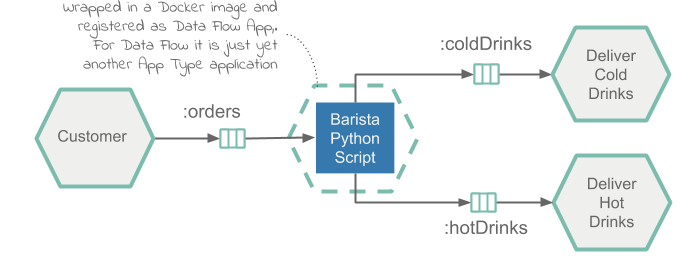
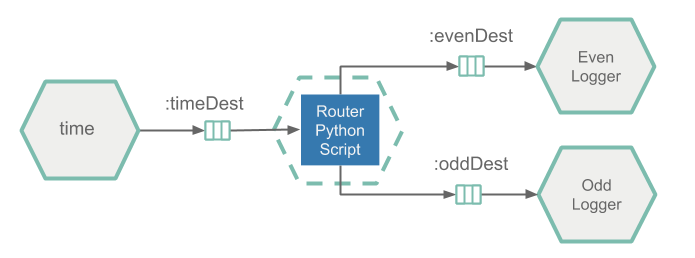
Replace Barista by Python-Router
- fix the corresponding samples project and add pipeline deployment properties artifact
 - update the new springcloud/polyglot-python-app:0.2 image
 - update the recipe documentation
 - replace all affected diagrams
 - Test the python-router on minikube

 Resolves: spring-cloud/spring-cloud-dataflow/issues/3247

Changed region(s): [[0.0303, 0.0, 0.9711, 1.0]]

diff --git a/content/documentation/pages/6-recipes/1-polyglot/3-polyglot-python-app.md b/content/documentation/pages/6-recipes/1-polyglot/3-polyglot-python-app.md
@@ -8,72 +8,96 @@ description: 'Create and Deploy a Python Application in a Stream'
 
 This recipe illustrates how to deploy a Python script as an Data Flow [application](https://docs.spring.io/spring-cloud-dataflow/docs/%dataflow-version%/reference/htmlsingle/#spring-cloud-dataflow-stream-app-dsl).
 Unlike the other applications types (e.g. `source`, `processor` or `sink`), Data Flow does not set deployment properties that wire up producers and consumers when deploying the `app` application type.
-It is the developer’s responsibility to 'wire up' the multiple applications when deploying in order for them to communicate using deployment properties.
+It is the developer’s responsibility to 'wire up' the multiple applications when deploying in order for them to communicate by using deployment properties.
 
-In this guide we will package the Python script as a Docker image and deploy to Kubernetes. Apache Kafka will be used as the messaging middleware. One could also deploy to the `Local` platform.
-The docker image will be registered in Data Flow as an application of the type `App`.
-
-The recipe creates a data processing pipelines that emulates part of the operation of a cafe inspired by one of the samples in the [Enterprise Integration Patterns web site](https://www.enterpriseintegrationpatterns.com/ramblings/18_starbucks.html).
-The Pipeline takes customer's `orders` message from an input channel, depending on the order it routes the message to dedicated `hotDrink` or `coldDrink` downstream channels.
+The recipe creates a data processing pipelines that dispatches `input` stream of timestamps to either `even` or `odd` downstream channels.
+Technically the recipe implements the [Dynamic Router](https://www.enterpriseintegrationpatterns.com/patterns/messaging/DynamicRouter.html) integration pattern.
+The Pipeline takes time's source `timestamps` messages from an `timeDest` input channel, depending on the timestamp value it routes the message to dedicated `evenDest` or `oddDest` downstream channels.
 
 The following diagram shows the architecture of the cafe processing pipelines.
 
 ![SCDF Python Tasks](images/polyglot-python-app-architecture.png)
 
-To avoid creating a new source applications, the `Customer`, will use the prebuilt [Time Source](https://docs.spring.io/spring-cloud-stream-app-starters/docs/%streaming-apps-version%/reference/htmlsingle/#spring-cloud-stream-modules-time-source) application.
-It continuously emits timestamps, that will represent the order, to a downstream Kafka topic called `orders`.
+As timestamp source will use the pre-built [Time Source](https://docs.spring.io/spring-cloud-stream-app-starters/docs/%streaming-apps-latest%/reference/htmlsingle/#spring-cloud-stream-modules-time-source) application but registered as Data Flow `App` type.
+It continuously emits timestamps to a downstream Kafka topic called `timeDest`.
 
-The `Barista` app, implemented by the Python script, consumes the incoming orders (e.g. timestamps) and produces hot drinks for the even timestamps and cold drinks for the odd ones.
-Produced drinks (represented by text messages) are sent downstream to ether the `hotDrink` or `coldDrink` Kafka topics.
+The `Router` app, implemented by the Python script and packaged as a Docker image, consumes the incoming timestamps from the `timeDest` Kafka topic and according to the timestamp value routes the messages downstream to either the `evenDest` or `oddDest` Kafka topics.
 
-The `Deliver Hot Drink` and `Deliver Cold Drink` components are the prebuilt [log-sink] applications that consume the `hotDrink` or `coldDrink` topics and prints the incoming message in on the console.
+The `Even Logger` and `Odd Logger` components are the pre-built [Log Sink](https://docs.spring.io/spring-cloud-stream-app-starters/docs/%streaming-apps-latest%/reference/htmlsingle/#spring-cloud-stream-modules-log-sink) applications but registered as Data Flow `App` type.
+Loggers consume the `evenDest` or `oddDest` topics and prints the incoming message in on the console.
+
+Apache Kafka will be used as the messaging middleware. 
+
 
 ## Development
 
 The source code can be found in the samples GitHub [repository](https://github.com/spring-cloud/spring-cloud-dataflow-samples/tree/master/dataflow-website/recipes/polyglot/polyglot-python-app) and downloaded as a zipped archive: [polyglot-python-app.zip](https://github.com/spring-cloud/spring-cloud-dataflow-samples/raw/master/dataflow-website/recipes/polyglot/polyglot-python-app.zip).
 
-The [barista_app.py](https://github.com/spring-cloud/spring-cloud-dataflow-samples/blob/master/dataflow-website/recipes/polyglot/polyglot-python-app/barista_app.py) implements the Barista application logic.
+The [python_router_app.py](https://github.com/spring-cloud/spring-cloud-dataflow-samples/blob/master/dataflow-website/recipes/polyglot/polyglot-python-app/python_router_app.py) implements the timestamp Router application logic.
 
 ```python
+from kafka import KafkaConsumer, KafkaProducer
+from kafka.admin import KafkaAdminClient, NewTopic
+from kafka.errors import TopicAlreadyExistsError
+
 from util.actuator import Actuator
 from util.arguments import get_kafka_brokers, get_env_info, get_channel_topic
 
-class Barista:
+class Router:
 
- def __init__(self, info, kafka_brokers, orders, hot_drinks, cold_drinks):
-   self.kafka_brokers = kafka_brokers
-   self.orders_topic = orders
-   self.hot_drink_topic = hot_drinks
-   self.cold_drink_topic = cold_drinks
+    def __init__(self, info, kafka_brokers, input_topic, even_topic, odd_topic):
 
-   Actuator.start(port=8080, info=info)
+        self.kafka_brokers = kafka_brokers
+        self.input_topic = input_topic
+        self.even_topic = even_topic
+        self.odd_topic = odd_topic
 
-   self.consumer = KafkaConsumer(self.orders_topic, bootstrap_servers=self.kafka_brokers)
-   self.producer = KafkaProducer(bootstrap_servers=self.kafka_brokers)
+        # Serve the liveliness and readiness probes via http server in a separate thread.
+        Actuator.start(port=8080, info=info)
 
- def process_orders(self):
-   while True:
-     for message in self.consumer:
-       if message.value is not None:
-         if self.is_even_order(message.value):
-           self.producer.send(self.hot_drink_topic, b'Serve Hot drink')
-         else:
-           self.producer.send(self.cold_drink_topic, b'Serve Cold drink')
+        # Ensure the output topics exist.
+        self.__create_topics_if_missing([self.input_topic, self.even_topic, self.odd_topic])
 
-Barista(
-   get_env_info(),
-   get_kafka_brokers(),
-   get_channel_topic('orders'),
-   get_channel_topic('hot.drink'),
-   get_channel_topic('cold.drink')
-).process_orders()
+        self.consumer = KafkaConsumer(self.input_topic, bootstrap_servers=self.kafka_brokers)
+        self.producer = KafkaProducer(bootstrap_servers=self.kafka_brokers)
+
+    def __create_topics_if_missing(self, topic_names):
+        admin_client = KafkaAdminClient(bootstrap_servers=self.kafka_brokers, client_id='test')
+        for topic in topic_names:
+            try:
+                new_topic = NewTopic(name=topic, num_partitions=1, replication_factor=1)
+                admin_client.create_topics(new_topics=[new_topic], validate_only=False)
+            except TopicAlreadyExistsError:
+                print ('Topic: {} already exists!')
+
+    def process_timestamps(self):
+        while True:
+            for message in self.consumer:
+                if message.value is not None:
+                    if self.is_even_timestamp(message.value):
+                        self.producer.send(self.even_topic, b'Even timestamp: ' + message.value)
+                    else:
+                        self.producer.send(self.odd_topic, b'Odd timestamp:' + message.value)
+
+    @staticmethod
+    def is_even_timestamp(value):
+        return int(value[-1:]) % 2 == 0
+
+
+Router(
+    get_env_info(),
+    get_kafka_brokers(),
+    get_channel_topic('input'),
+    get_channel_topic('even'),
+    get_channel_topic('odd')
+).process_timestamps()
 
 ```
 
 [[note]]
 | If the `print` command is used inside the Python script, later must be flushed with `sys.stdout.flush()` to prevent the output buffer being filled up, causing disruption to the Kafka’s consumer/producer flow!
 
-- The [kafka-python](https://github.com/dpkp/kafka-python) library is used to consume and produce Kafka messages. The process_orders method continuously consumes orders from the input channel and send hot or cold drinks to the output channels.
+- The [kafka-python](https://github.com/dpkp/kafka-python) library is used to consume and produce Kafka messages. The process_timestamps method continuously consumes timestamps from the input channel and routs the even or odd values to the output channels.
 
 - The [Actuator](https://github.com/spring-cloud/spring-cloud-dataflow-samples/blob/master/dataflow-website/recipes/polyglot/polyglot-python-app/util/actuator.py#L7) class inside [actuator.py](https://github.com/spring-cloud/spring-cloud-dataflow-samples/blob/master/dataflow-website/recipes/polyglot/polyglot-python-app/util/actuator.py) utility is used to expose operational information about the running application, such as health, liveliness, info, etc.
   It runs an embedded HTTP server in a separate thread and exposes the `/actuator/health` and `/actuator/info` entry-points handles the Kubernetes liveness and readiness probes requests.
@@ -82,18 +106,19 @@ Barista(
   The utility assumes default (e.g. exec) [entry point style](https://docs.spring.io/spring-cloud-dataflow/docs/%dataflow-version%/reference/htmlsingle/#_entry_point_style_2).
   Note that Data Flow passes the Kafka broker connection properties as environment variables.
 
-For the `barista_app.py` to act as a Data Flow `app` it needs to be bundled in a docker image and uploaded to `DockerHub`. Following [Dockerfile](https://github.com/spring-cloud/spring-cloud-dataflow-samples/blob/master/dataflow-website/recipes/polyglot/polyglot-python-app/Dockerfile) illustrates how to bundle a Python script into docker image:
+For the `python_router_app.py` to act as a Data Flow `app` it needs to be bundled in a docker image and uploaded to `DockerHub`. Following [Dockerfile](https://github.com/spring-cloud/spring-cloud-dataflow-samples/blob/master/dataflow-website/recipes/polyglot/polyglot-python-app/Dockerfile) illustrates how to bundle a Python script into docker image:
 
 ```docker
 FROM python:3.7.3-slim
 RUN pip install kafka-python
 RUN pip install flask
 ADD /util/* /util/
-ADD barista_app.py /
-ENTRYPOINT ["python","/barista_app.py"]
+ADD python_router_app.py /
+ENTRYPOINT ["python","/python_router_app.py"]
+CMD []
 ```
 
-The Dockerfile installs the required dependencies, adds the barista script (e.g. `ADD barista_app.py`) and utilities (under the `util` folder above) and sets the command entry.
+The Dockerfile installs the required dependencies, adds the python script (e.g. `ADD python_router_app.py`) and utilities (under the `util` folder above) and sets the command entry.
 
 ### Build
 
@@ -109,8 +134,8 @@ cd ./spring-cloud-dataflow-samples/dataflow-website/recipes/polyglot/polyglot-py
 From within the `polyglot-python-app`, build and push the polyglot-python-app Docker image to DockerHub:
 
 ```bash
-docker build -t springcloud/polyglot-python-app:0.1 .
-docker push springcloud/polyglot-python-app:0.1
+docker build -t springcloud/polyglot-python-app:0.2 .
+docker push springcloud/polyglot-python-app:0.2
 ```
 
 <!--TIP-->
@@ -128,66 +153,86 @@ Follow the [installation instructions](%currentPath%/installation/kubernetes/) t
 Retrieve the Data Flow url from minikube (`minikube service --url scdf-server`) and configure your Data Flow shell:
 
 ```bash
-dataflow config server --uri http://192.168.99.100:30868`
+dataflow config server --uri http://192.168.99.100:30868
 ```
 
-Import the SCDF app starters and register the polyglot-python-app as barista-app of type `app`
+Import the SCDF `time` and `log` app starters and register the polyglot-python-app as `python-router` of type `app`
 
 ```bash
-app import --uri https://dataflow.spring.io/kafka-docker-latest
-app register --type app --name barista-app --uri docker://springcloud/polyglot-python-app:0.1
+app register --name time --type app --uri docker:springcloudstream/time-source-kafka:2.1.0.RELEASE --metadata-uri maven://org.springframework.cloud.stream.app:time-source-kafka:jar:metadata:2.1.0.RELEASE
+
+app register --name log --type app --uri docker:springcloudstream/log-sink-kafka:2.1.1.RELEASE --metadata-uri maven://org.springframework.cloud.stream.app:log-sink-kafka:jar:metadata:2.1.1.RELEASE
+
+app register --type app --name python-router --uri docker://springcloud/polyglot-python-app:0.2
 ```
 
-The `docker://springcloud/polyglot-python-app:0.1` is resolved from the [DockerHub repository](https://hub.docker.com/r/springcloud/polyglot-python-app).
+The `docker://springcloud/polyglot-python-app:0.2` is resolved from the [DockerHub repository](https://hub.docker.com/r/springcloud/polyglot-python-app).
 
-Create the orders, cold-drink-line and hot-drink-line, bar pipelines:
+Create the timestamp routing Stream pipeline:
 
 ```bash
-stream create --name orders-pipeline --definition "customer: time > :orders" --deploy
-stream create --name hot-drink-pipeline --definition ":hotDrinks > hot-drink-log: log" --deploy
-stream create --name cold-drink-pipeline --definition ":coldDrinks > cold-drink-log: log" --deploy
-stream create --name bar-pipeline --definition "barista-app"
+stream create --name timeStampStream --definition "time || python-router || evenLogger: log || oddLogger: log"
 ```
 
 <!--NOTE-->
 
-The stream definitions above make use of the [label feature](%currentPath%/feature-guides/streams/labels/) in the DSL in addition to [named destinations](%currentPath%/feature-guides/streams/named-destinations/). For example, the definition `:hotDrinks > hot-drink-log: log` is using the the named destination `hotDrinks`, which is the destination where the Python application will send messages. The expression `hot-drink-log: log` labels the log appliction with a more descriptive name.
+The stream definitions above make use of the [label feature](%currentPath%/feature-guides/streams/labels/) in the DSL.
 
 <!--END_NOTE-->
 
-As result the following stream pipelines are created and all but the `bar-pipeline` are deployed:
+As result the following stream pipeline is created:
 
-![Barista Applications - Not Wired](images/polyglot-python-app-barista.png)
-
-- `orders-pipeline` generates drink orders (e.g. timestamps) using the `time` source application and sends them to a Kafka topic: `orders`.
-- `hot-drink-pipeline` logs the hot drinks coming through the Kafka topic named `hotDrinks`.
-- `cold-drink-pipeline` logs the cold drinks coming through Kafka topic named `coldDrinks`.
+![timeStampStream un-deployed](images/polyglot-python-app-timeStampStream-undeployed.png)
 
 <!--IMPORTANT-->
 
-The `barista-app` is registered as [App](https://docs.spring.io/spring-cloud-dataflow/docs/%dataflow-version%/reference/htmlsingle/#spring-cloud-dataflow-stream-app-dsl) type application and therefore can have multiple input and output bindings (e.g. channels). Data Flow does not make any assumptions about the flow of data from one application to another. It is the developer’s responsibility to 'wire up' the multiple applications when deploying in order for them to communicate.
+The `time`, `log` and `python-router` are registered as [App](https://docs.spring.io/spring-cloud-dataflow/docs/%scdf-version-latest%/reference/htmlsingle/#spring-cloud-dataflow-stream-app-dsl) type applications and therefore can have multiple input and output bindings (e.g. channels). Data Flow does not make any assumptions about the flow of data from one application to another. It is the developer’s responsibility to 'wire up' the multiple applications when deploying in order for them to communicate.
 
 <!--END_IMPORTANT-->
 
-Keeping this in mind we deploy the `bar-pipeline` with the following deployment properties:
+Keeping this in mind we deploy the timestamp Stream pipeline with the [polyglot-python-app-deployment.properties](https://github.com/spring-cloud/spring-cloud-dataflow-samples/blob/master/dataflow-website/recipes/polyglot/polyglot-python-app/polyglot-python-app-deployment.properties) deployment properties:
 
 ```bash
-stream deploy --name bar-pipeline --properties app.barista-app.spring.cloud.stream.bindings.orders.destination=orders,app.barista-app.spring.cloud.stream.bindings.hot.drink.destination=hotDrinks,app.barista-app.spring.cloud.stream.bindings.cold.drink.destination=coldDrinks
+stream deploy --name timeStampStream --propertiesFile <polyglot-python-app folder>/polyglot-python-app-deployment.properties
+```
+
+The deployment properties defines the Kafka topics used to wire the time, python-router and logger applications:
+
+```
+app.time.spring.cloud.stream.bindings.output.destination=timeDest
+
+app.python-router.spring.cloud.stream.bindings.input.destination=timeDest
+app.python-router.spring.cloud.stream.bindings.even.destination=evenDest
+app.python-router.spring.cloud.stream.bindings.odd.destination=oddDest
+
+app.evenLogger.spring.cloud.stream.bindings.input.destination=evenDest
+app.oddLogger.spring.cloud.stream.bindings.input.destination=oddDest
 ```
 
 [[tip]]
-| the app.barista-app.xxx prefix is a Data Flow convention to map the properties specified after the prefix to the barista-app in the bar stream.
+| the app.python-router.xxx prefix is a Data Flow convention to map the properties specified after the prefix to the python-router app in the timeStampStream stream.
 
-The orders channel is bound to the orders Kafka topic, the hot.drink barista output channel is bound to the hotDrinks topic and the cold.drink channel is bound to the coldDrinks topic.
+The timestamp channel is bound to the `timeDest` Kafka topic, the router's even output channel is bound to the `evenDest` topic and the odd channel is bound to the `oddDest` topic.
 After the deployment the data flow looks like this:
 
-![Barista Applications - Wired](images/polyglot-python-app-barista-wired.png)
+![timeStampStream deployed](images/polyglot-python-app-timeStampStream-deployed.png)
 
-- Use `kubectl get all` command to list the statuses of the deployed k8s containers. Use `kubectl logs -f xxx` to observe the hot and cold drink pipeline output.
-  For example `kubectl logs -f po/cold-drink-line-cold-drinks-xxx` should show output:
+- Use `kubectl get all` command to list the statuses of the deployed k8s containers. Use `kubectl logs -f xxx` to observe the even and odd pipeline output.
 
-  ![Barista -Cold Drink Line Log](images/cold-drink-line-cold-drinks-log.png)
+  For example the `kubectl logs -f po/timestampstream-evenlogger-xxx` should output:
 
-  For example `kubectl logs -f po/hot-drink-line-hot-drinks-xxx` should show output:
+  ```bash
+  2019-05-17 17:56:36.241  INFO 1 --- log-sink   : Even timestamp:05/17/19 17:56:36
+  2019-05-17 17:56:38.301  INFO 1 --- log-sink   : Even timestamp:05/17/19 17:56:38
+  2019-05-17 17:56:40.402  INFO 1 --- log-sink   : Even timestamp:05/17/19 17:56:40
+  ...
+  ```
 
-  ![Barista - Hot Drink Line Log](images/cold-drink-line-hot-drinks-log.png)
+  and the `kubectl logs -f po/timestampstream-oddlogger-xxx` should output:
+
+  ```bash
+  2019-05-17 17:56:37.447  INFO 1 --- log-sink   : Odd timestamp:05/17/19 17:56:37
+  2019-05-17 17:56:39.358  INFO 1 --- log-sink   : Odd timestamp:05/17/19 17:56:39
+  2019-05-17 17:56:41.452  INFO 1 --- log-sink   : Odd timestamp:05/17/19 17:56:41
+  ...
+  ```
